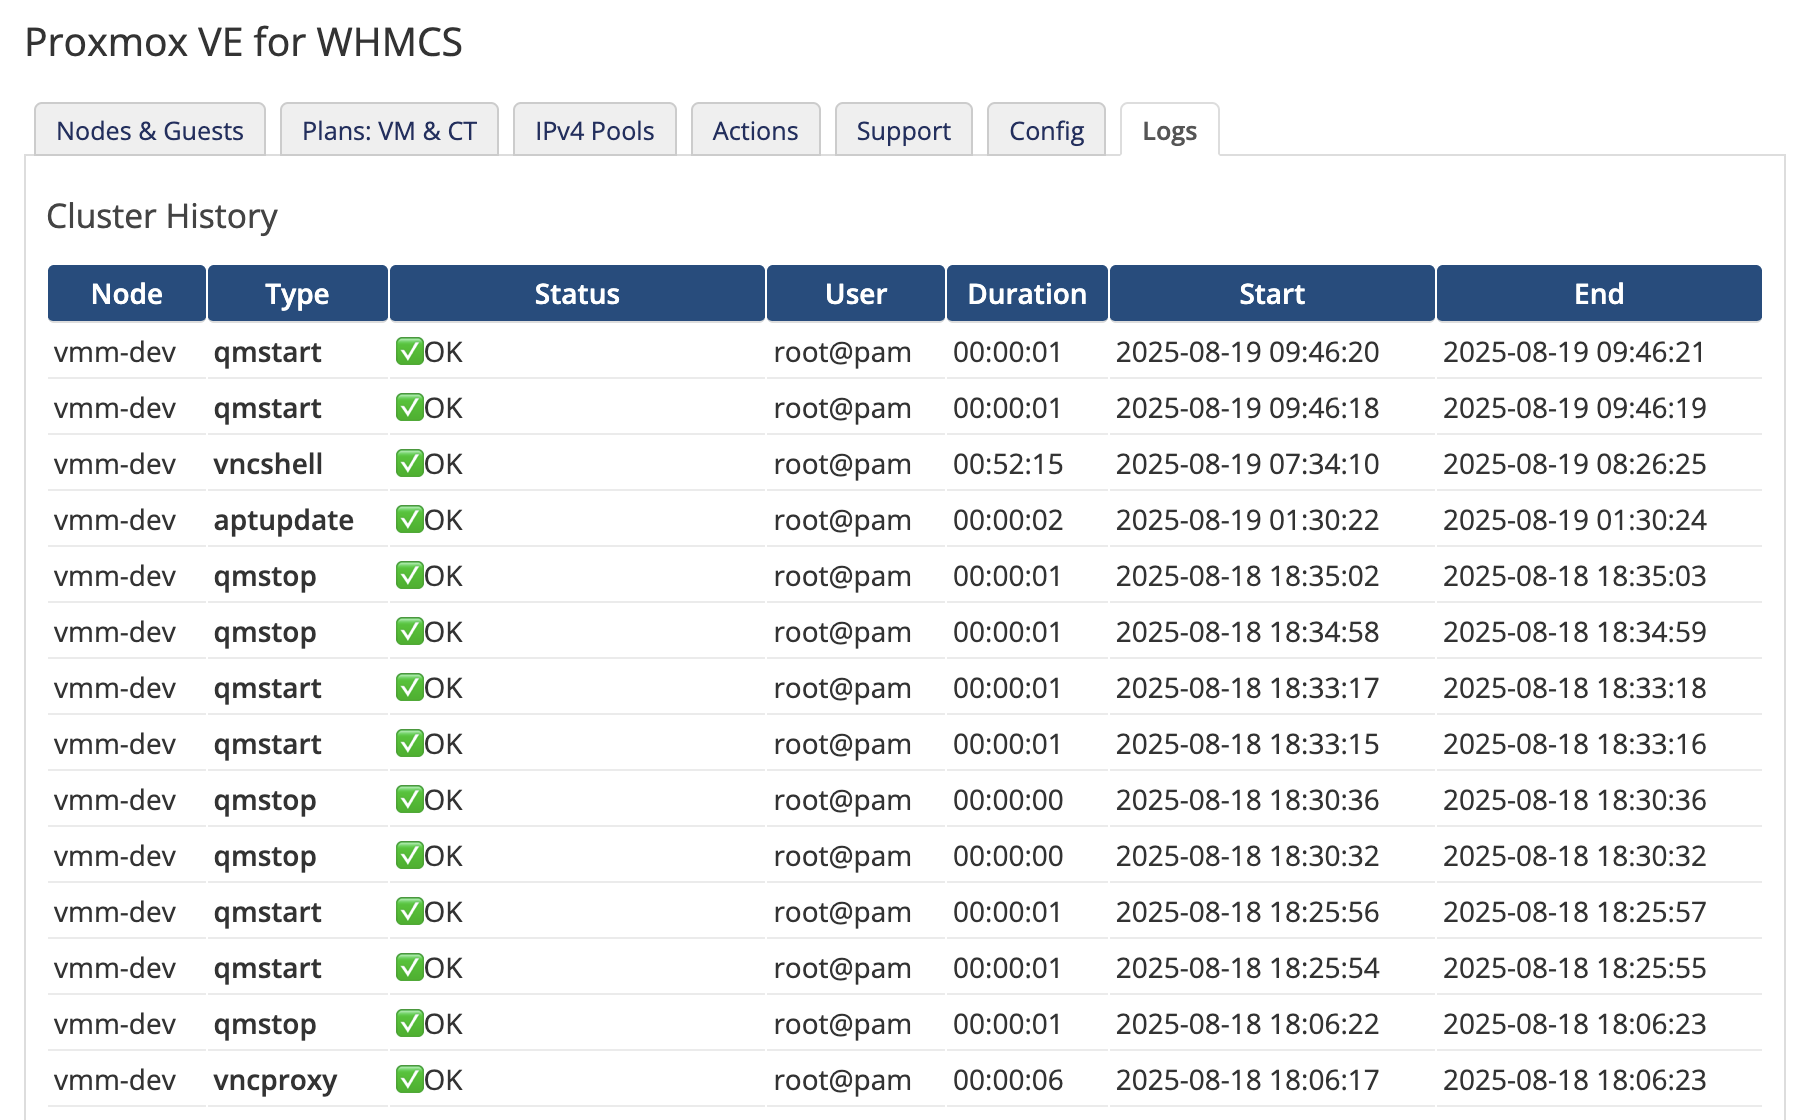
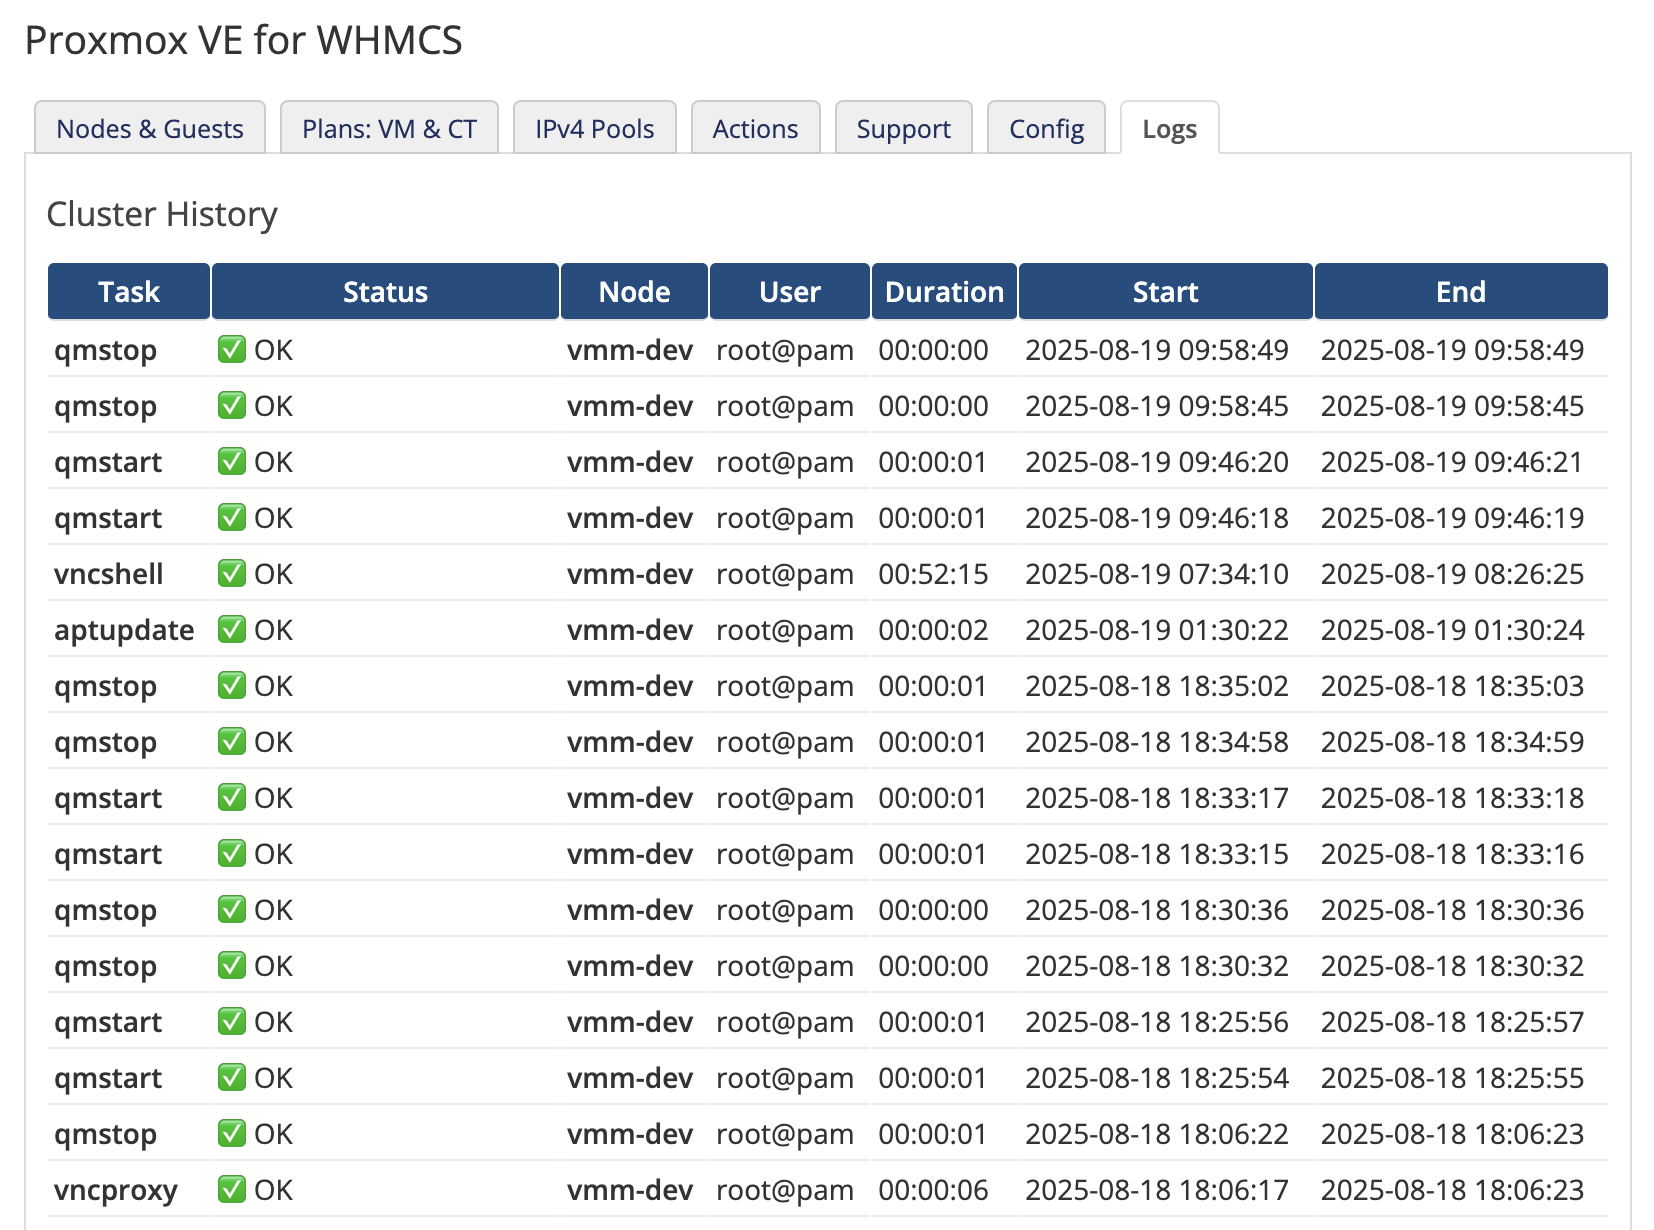
Re-arrange Log columns; replace SS

Changed region(s): [[0.0, 0.125, 0.9867, 1.0], [0.0, 0.0, 0.74, 0.1562]]

diff --git a/modules/addons/pvewhmcs/pvewhmcs.php b/modules/addons/pvewhmcs/pvewhmcs.php
@@ -597,9 +597,9 @@ function pvewhmcs_output($vars) {
 
 	        echo '<table class="datatable" border="0" cellpadding="3" cellspacing="1" width="100%">';
 	        echo '<tbody><tr>
-	                <th>Node</th>
-	                <th>Type</th>
+	                <th>Task</th>
 	                <th>Status</th>
+	                <th>Node</th>
 	                <th>User</th>
                 	<th>Duration</th>
 	                <th>Start</th>
@@ -627,9 +627,9 @@ function pvewhmcs_output($vars) {
 	                : ((preg_match('/(error|fail|aborted|unknown)/i', (string)$status)) ? '❌' : '⏳');
 
 	            echo '<tr>';
-	            echo '<td>' . htmlspecialchars($node) . '</td>';
 	            echo '<td><strong>' . htmlspecialchars($type) . '</strong></td>';
-	            echo '<td>' . $badge . htmlspecialchars($status) . '</td>';
+	            echo '<td>' . $badge . ' ' . htmlspecialchars($status) . '</td>';
+	            echo '<td><strong>' . htmlspecialchars($node) . '</strong></td>';
 	            echo '<td>' . htmlspecialchars($user) . '</td>';
 	            echo '<td>' . htmlspecialchars($durH) . '</td>';
 	            echo '<td>' . htmlspecialchars($start) . '</td>';
